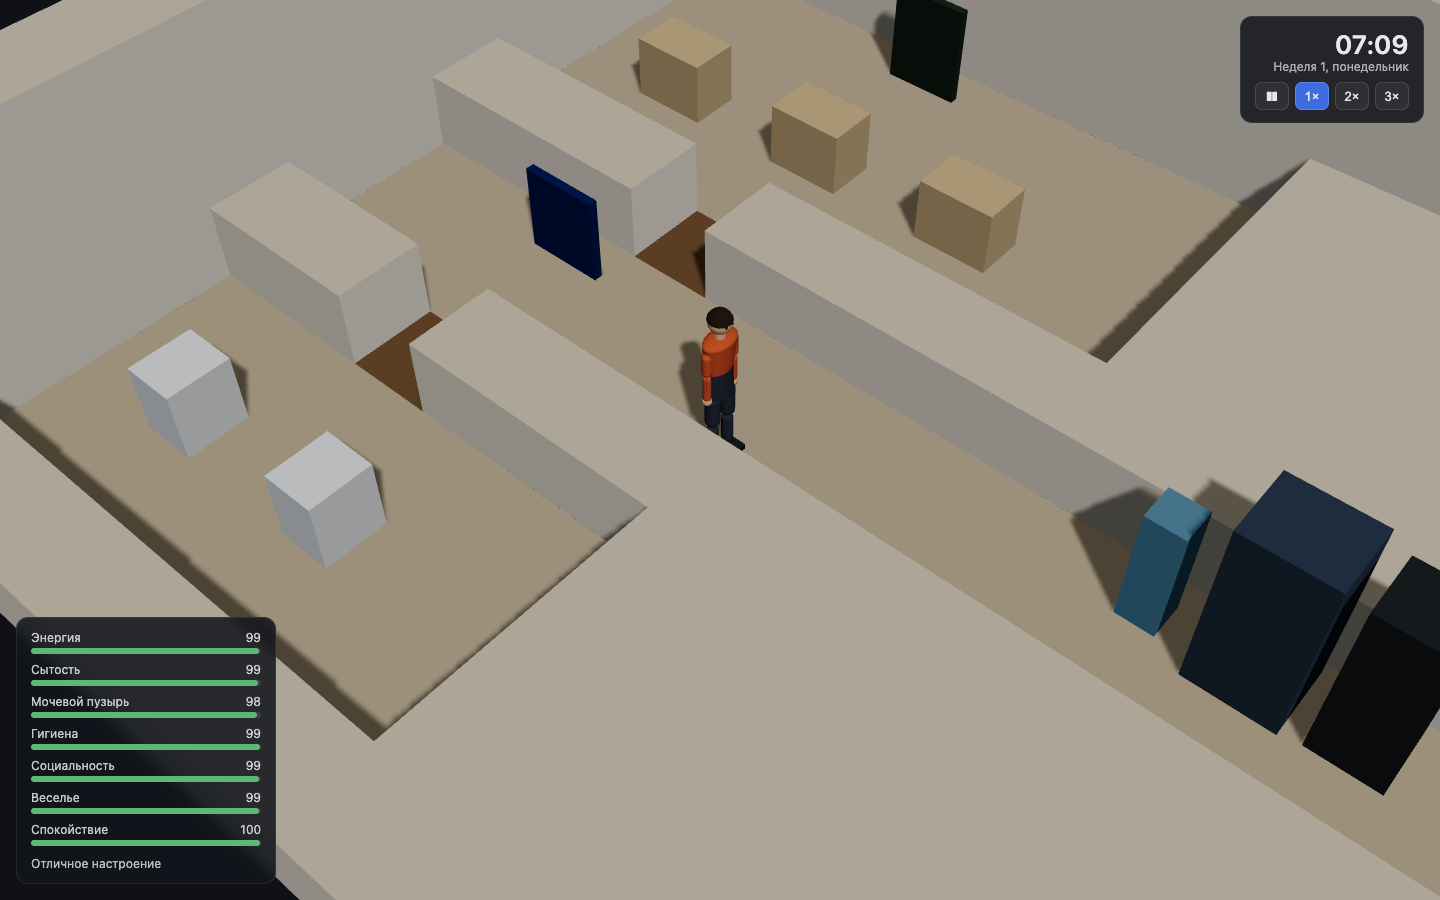
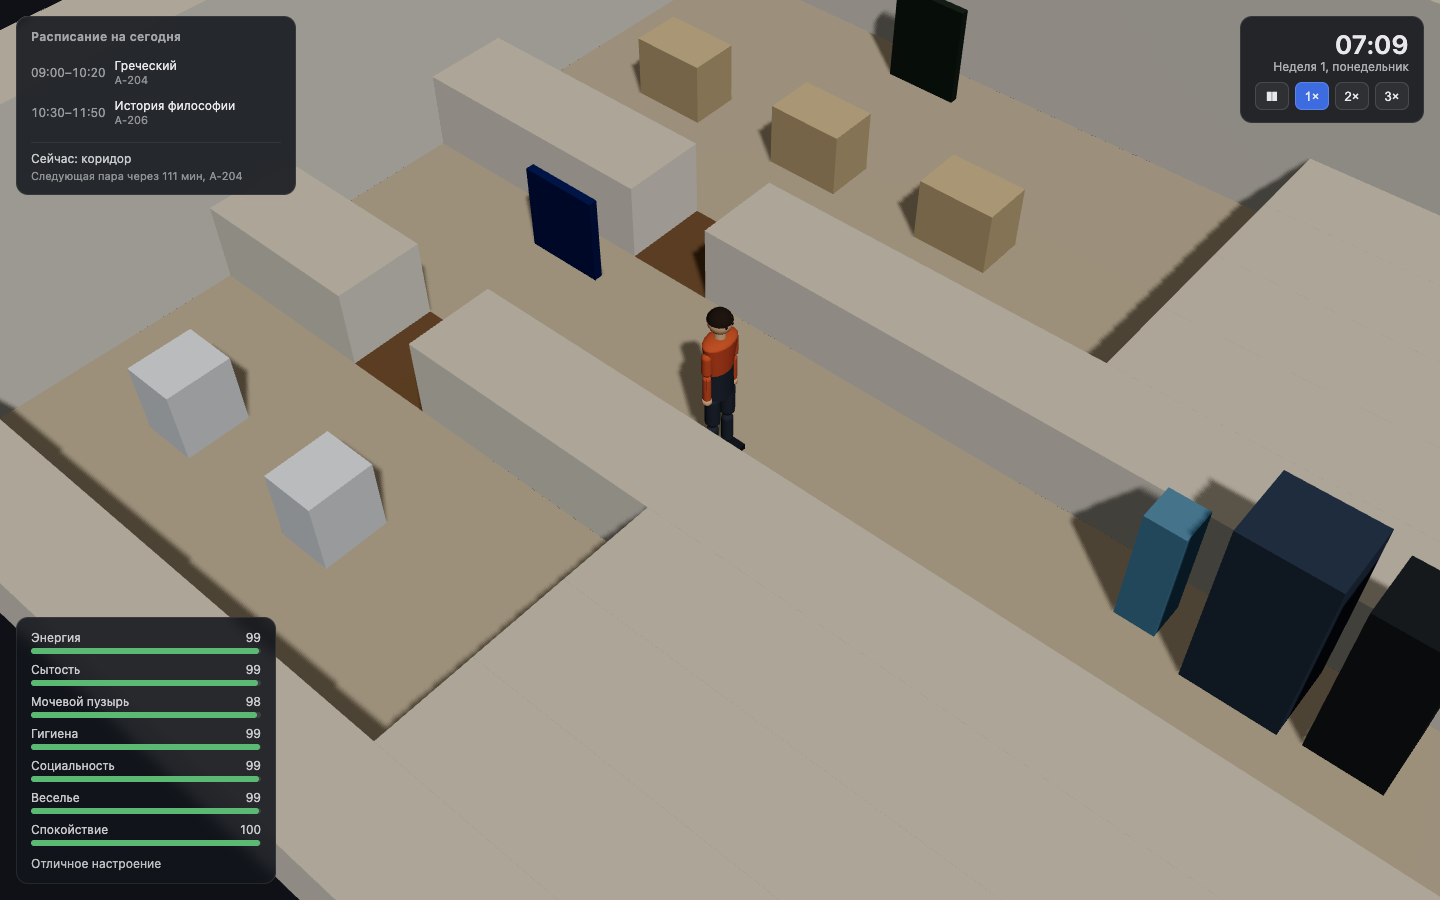
Панель расписания на сегодня
Список пар дня: время, курс, аудитория и отметка о посещении, если
она уже проставлена. Текущая пара подсвечена, ниже — строка «Сейчас:
коридор» и время до следующего звонка. Панель встала в левый верхний
угол, не задевая ни нужды, ни часы.

Мир в useWorld теперь создаётся с STUDY_CONFIG, иначе панели нечего
показывать. Дымовой тест проверяет, что расписание и помещение
действительно доезжают до экрана.

Changed region(s): [[0.0, 0.0, 0.2188, 0.2178]]

diff --git a/src/render/ui/SchedulePanel.tsx b/src/render/ui/SchedulePanel.tsx
@@ -1,0 +1,68 @@
+import type { AttendanceMark } from '../../sim/study/Attendance'
+import { lessonAt, lessonsOnDay, periodOf, type Lesson } from '../../sim/study/Schedule'
+import { useWorld, useWorldSnapshot } from '../useWorld'
+
+const MARK_LABELS: Record<AttendanceMark, string> = {
+  present: 'был',
+  late: 'опоздал',
+  absent: 'прогул',
+}
+
+const KIND_LABELS: Record<Lesson['kind'], string> = {
+  lecture: 'лекция',
+  seminar: 'семинар',
+}
+
+/**
+ * Расписание на сегодня: во сколько, что и где. Панель отвечает
+ * на единственный вопрос, который вообще есть у первокурсника
+ * в коридоре, — куда сейчас идти.
+ */
+export function SchedulePanel() {
+  const world = useWorld()
+  const snapshot = useWorldSnapshot()
+  const study = world.study
+  if (!study) return null
+
+  const lessons = lessonsOnDay(study.config.schedule, snapshot.day)
+  const current = lessonAt(study.config.schedule, snapshot.day, snapshot.minutes)
+
+  return (
+    <div className="hud__panel hud__schedule">
+      <div className="hud__panel-title">Расписание на сегодня</div>
+
+      {lessons.length === 0 ? (
+        <div className="lesson__empty">Занятий нет</div>
+      ) : (
+        lessons.map((lesson) => {
+          const course = study.config.courses[lesson.courseId]
+          const mark = study.attendance.markFor(lesson.id)
+          return (
+            <div
+              className="lesson"
+              key={lesson.id}
+              data-current={lesson.id === current?.id}
+              title={KIND_LABELS[lesson.kind]}
+            >
+              <div className="lesson__time">{periodOf(lesson.period)?.label ?? ''}</div>
+              <div className="lesson__body">
+                <div className="lesson__course">{course?.short ?? lesson.courseId}</div>
+                <div className="lesson__room">{lesson.room}</div>
+              </div>
+              {mark && <div className={`lesson__mark lesson__mark--${mark}`}>{MARK_LABELS[mark]}</div>}
+            </div>
+          )
+        })
+      )}
+
+      <div className="hud__where">Сейчас: {snapshot.currentRoom ?? 'в дверях'}</div>
+
+      {snapshot.nextLesson && (
+        <div className="hud__next">
+          Следующая пара через {Math.ceil(snapshot.nextLesson.startsInMinutes)} мин,{' '}
+          {snapshot.nextLesson.room}
+        </div>
+      )}
+    </div>
+  )
+}

diff --git a/src/render/ui/hud.css b/src/render/ui/hud.css
@@ -18,6 +18,64 @@
 
 .hud__needs { left: 16px; bottom: 16px; width: 230px; }
 .hud__time { right: 16px; top: 16px; text-align: right; }
+.hud__schedule { left: 16px; top: 16px; width: 250px; }
+
+.hud__panel-title {
+  font-size: 12px;
+  font-weight: 600;
+  letter-spacing: 0.3px;
+  opacity: 0.65;
+  margin-bottom: 8px;
+}
+
+.lesson {
+  display: flex;
+  align-items: center;
+  gap: 9px;
+  padding: 6px 8px;
+  margin: 0 -8px;
+  border-radius: 8px;
+  font-size: 12px;
+}
+
+.lesson[data-current='true'] {
+  background: rgba(61, 108, 224, 0.28);
+  box-shadow: inset 2px 0 0 #5c85ea;
+}
+
+.lesson__time { opacity: 0.6; font-variant-numeric: tabular-nums; white-space: nowrap; }
+.lesson__body { flex: 1; min-width: 0; }
+
+.lesson__course {
+  overflow: hidden;
+  text-overflow: ellipsis;
+  white-space: nowrap;
+}
+
+.lesson__room { font-size: 11px; opacity: 0.55; }
+.lesson__empty { font-size: 12px; opacity: 0.55; }
+
+.lesson__mark {
+  font-size: 11px;
+  padding: 2px 7px;
+  border-radius: 999px;
+  white-space: nowrap;
+  background: rgba(255, 255, 255, 0.08);
+}
+
+.lesson__mark--present { color: #8fd6a1; }
+.lesson__mark--late { color: #e5c273; }
+.lesson__mark--absent { color: #e58a83; }
+
+.hud__where {
+  margin-top: 10px;
+  padding-top: 8px;
+  border-top: 1px solid rgba(255, 255, 255, 0.08);
+  font-size: 12px;
+  opacity: 0.85;
+}
+
+.hud__next { margin-top: 3px; font-size: 11px; opacity: 0.55; }
 
 .need { margin-bottom: 8px; }
 .need:last-child { margin-bottom: 0; }

diff --git a/e2e/smoke.spec.ts b/e2e/smoke.spec.ts
@@ -156,6 +156,14 @@ test('сцена этажа рисуется, интерфейс на месте
   await expect(needs.getByText('Энергия', { exact: true })).toBeVisible()
   await expect(needs.getByText('Спокойствие', { exact: true })).toBeVisible()
 
+  // Расписание связано с миром: панель знает и про пары, и про то,
+  // в каком помещении стоит персонаж.
+  const schedule = page.locator('.hud__schedule')
+  await expect(schedule.getByText('Расписание на сегодня')).toBeVisible()
+  await expect(schedule.locator('.lesson')).toHaveCount(2)
+  await expect(schedule.locator('.lesson__room').first()).toHaveText('А-204')
+  await expect(schedule.locator('.hud__where')).toHaveText('Сейчас: коридор')
+
   const speedButtons = page.locator('.speed-buttons button')
   await expect(speedButtons).toHaveCount(4)
   await expect(speedButtons.nth(1)).toHaveAttribute('data-active', 'true')

diff --git a/src/render/useWorld.ts b/src/render/useWorld.ts
@@ -9,6 +9,8 @@ import {
 } from 'react'
 import { FLOOR_A2, FLOOR_A2_SPAWN } from '../content/floors/floorA2'
 import { PROP_CATALOG } from '../content/props/propCatalog'
+import { STUDY_CONFIG } from '../content/study/courses'
+import { StudyState } from '../sim/study/StudyState'
 import { World, type WorldSnapshot } from '../sim/World'
 
 const WorldContext = createContext<World | null>(null)
@@ -22,7 +24,12 @@ const SNAPSHOT_INTERVAL_MS = 100
  */
 export function WorldProvider({ children }: { children: ReactNode }) {
   const worldRef = useRef<World | null>(null)
-  worldRef.current ??= new World(FLOOR_A2, FLOOR_A2_SPAWN, PROP_CATALOG)
+  worldRef.current ??= new World(
+    FLOOR_A2,
+    FLOOR_A2_SPAWN,
+    PROP_CATALOG,
+    new StudyState(STUDY_CONFIG),
+  )
   return createElement(WorldContext.Provider, { value: worldRef.current }, children)
 }
 

diff --git a/src/render/App.tsx b/src/render/App.tsx
@@ -3,6 +3,7 @@ import { GameCanvas } from './GameCanvas'
 import './ui/hud.css'
 import { InteractionMenu } from './ui/InteractionMenu'
 import { NeedsPanel } from './ui/NeedsPanel'
+import { SchedulePanel } from './ui/SchedulePanel'
 import { TimeControls } from './ui/TimeControls'
 import { useWorldSnapshot, WorldProvider } from './useWorld'
 
@@ -22,6 +23,7 @@ function Hud({
   return (
     <div className="hud">
       <TimeControls />
+      <SchedulePanel />
       <NeedsPanel />
       <ActivityLabel />
       <InteractionMenu propId={selectedProp} onClose={onCloseMenu} />
